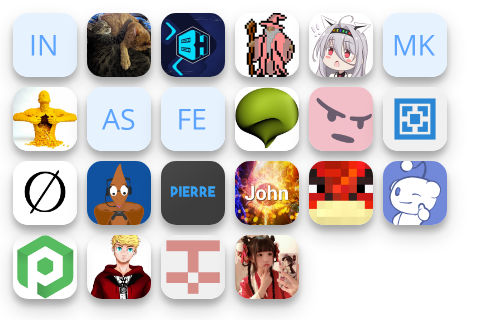
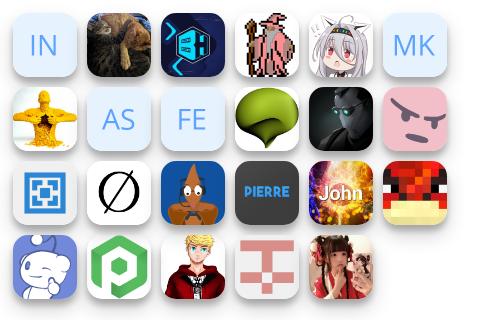
Sponsor Update

Changed region(s): [[0.0, 0.5, 0.9, 0.9688], [0.6, 0.25, 0.9, 0.4688]]

diff --git a/sponsors.html b/sponsors.html
@@ -1,7 +1,7 @@
 <html lang="en" style="height: 320px;width: 500px">
     <body>
     <ul style="margin: 0;padding: 0;list-style: none;">
-        <li style="display: inline"><img src='https://images.opencollective.com/incognito-6605083f/avatar.png' alt='Incognito' title='Incognito' onerror='this.src="https://opencollective.com/static/images/default-guest-logo.svg"' style="height: 64px;width: 64px;margin: 5px;border-radius: 15px;box-shadow: 0 10px 20px rgba(0,0,0,0.19), 0 6px 6px rgba(0,0,0,0.23);"/></li><li style="display: inline"><img src='https://images.opencollective.com/kyle-wood/57ef452/avatar.png' alt='Kyle Wood' title='Kyle Wood' onerror='this.src="https://opencollective.com/static/images/default-guest-logo.svg"' style="height: 64px;width: 64px;margin: 5px;border-radius: 15px;box-shadow: 0 10px 20px rgba(0,0,0,0.19), 0 6px 6px rgba(0,0,0,0.23);"/></li><li style="display: inline"><img src='https://images.opencollective.com/bisecthosting/a176793/logo.png' alt='BisectHosting' title='BisectHosting' onerror='this.src="https://opencollective.com/static/images/default-guest-logo.svg"' style="height: 64px;width: 64px;margin: 5px;border-radius: 15px;box-shadow: 0 10px 20px rgba(0,0,0,0.19), 0 6px 6px rgba(0,0,0,0.23);"/></li><li style="display: inline"><img src='https://images.opencollective.com/notmyfault/8026388/avatar.png' alt='NotMyFault' title='NotMyFault' onerror='this.src="https://opencollective.com/static/images/default-guest-logo.svg"' style="height: 64px;width: 64px;margin: 5px;border-radius: 15px;box-shadow: 0 10px 20px rgba(0,0,0,0.19), 0 6px 6px rgba(0,0,0,0.23);"/></li><li style="display: inline"><img src='https://images.opencollective.com/paper-chan/21d649c/avatar.png' alt='Paper Chan' title='Paper Chan' onerror='this.src="https://opencollective.com/static/images/default-guest-logo.svg"' style="height: 64px;width: 64px;margin: 5px;border-radius: 15px;box-shadow: 0 10px 20px rgba(0,0,0,0.19), 0 6px 6px rgba(0,0,0,0.23);"/></li><li style="display: inline"><img src='https://images.opencollective.com/guest-e5424b5d/avatar.png' alt='Max Klug' title='Max Klug' onerror='this.src="https://opencollective.com/static/images/default-guest-logo.svg"' style="height: 64px;width: 64px;margin: 5px;border-radius: 15px;box-shadow: 0 10px 20px rgba(0,0,0,0.19), 0 6px 6px rgba(0,0,0,0.23);"/></li><li style="display: inline"><img src='https://images.opencollective.com/minidigger/d330b74/avatar.png' alt='MiniDigger | Martin' title='MiniDigger | Martin' onerror='this.src="https://opencollective.com/static/images/default-guest-logo.svg"' style="height: 64px;width: 64px;margin: 5px;border-radius: 15px;box-shadow: 0 10px 20px rgba(0,0,0,0.19), 0 6px 6px rgba(0,0,0,0.23);"/></li><li style="display: inline"><img src='https://images.opencollective.com/andrew-steinborn/avatar.png' alt='Andrew Steinborn' title='Andrew Steinborn' onerror='this.src="https://opencollective.com/static/images/default-guest-logo.svg"' style="height: 64px;width: 64px;margin: 5px;border-radius: 15px;box-shadow: 0 10px 20px rgba(0,0,0,0.19), 0 6px 6px rgba(0,0,0,0.23);"/></li><li style="display: inline"><img src='https://images.opencollective.com/guest-75cfb38d/avatar.png' alt='fergydanny' title='fergydanny' onerror='this.src="https://opencollective.com/static/images/default-guest-logo.svg"' style="height: 64px;width: 64px;margin: 5px;border-radius: 15px;box-shadow: 0 10px 20px rgba(0,0,0,0.19), 0 6px 6px rgba(0,0,0,0.23);"/></li><li style="display: inline"><img src='https://avatars.githubusercontent.com/u/181668?v=4' alt='mbax' title='mbax' onerror='this.src="https://opencollective.com/static/images/default-guest-logo.svg"' style="height: 64px;width: 64px;margin: 5px;border-radius: 15px;box-shadow: 0 10px 20px rgba(0,0,0,0.19), 0 6px 6px rgba(0,0,0,0.23);"/></li><li style="display: inline"><img src='https://avatars.githubusercontent.com/u/7191851?v=4' alt='sweepyoface' title='sweepyoface' onerror='this.src="https://opencollective.com/static/images/default-guest-logo.svg"' style="height: 64px;width: 64px;margin: 5px;border-radius: 15px;box-shadow: 0 10px 20px rgba(0,0,0,0.19), 0 6px 6px rgba(0,0,0,0.23);"/></li><li style="display: inline"><img src='https://avatars.githubusercontent.com/u/10004025?v=4' alt='aternosorg' title='aternosorg' onerror='this.src="https://opencollective.com/static/images/default-guest-logo.svg"' style="height: 64px;width: 64px;margin: 5px;border-radius: 15px;box-shadow: 0 10px 20px rgba(0,0,0,0.19), 0 6px 6px rgba(0,0,0,0.23);"/></li><li style="display: inline"><img src='https://avatars.githubusercontent.com/u/13875753?u=6e3a6da4e2af646471f846dc618c251b00b58d9c' alt='LMBishop' title='LMBishop' onerror='this.src="https://opencollective.com/static/images/default-guest-logo.svg"' style="height: 64px;width: 64px;margin: 5px;border-radius: 15px;box-shadow: 0 10px 20px rgba(0,0,0,0.19), 0 6px 6px rgba(0,0,0,0.23);"/></li><li style="display: inline"><img src='https://avatars.githubusercontent.com/u/16179146?v=4' alt='pterodactyl' title='pterodactyl' onerror='this.src="https://opencollective.com/static/images/default-guest-logo.svg"' style="height: 64px;width: 64px;margin: 5px;border-radius: 15px;box-shadow: 0 10px 20px rgba(0,0,0,0.19), 0 6px 6px rgba(0,0,0,0.23);"/></li><li style="display: inline"><img src='https://avatars.githubusercontent.com/u/27054324?u=bb7337fe6921d0d732fa56b4089366e721987ef1' alt='PierreSchwang' title='PierreSchwang' onerror='this.src="https://opencollective.com/static/images/default-guest-logo.svg"' style="height: 64px;width: 64px;margin: 5px;border-radius: 15px;box-shadow: 0 10px 20px rgba(0,0,0,0.19), 0 6px 6px rgba(0,0,0,0.23);"/></li><li style="display: inline"><img src='https://avatars.githubusercontent.com/u/28821789?v=4' alt='J0ddy' title='J0ddy' onerror='this.src="https://opencollective.com/static/images/default-guest-logo.svg"' style="height: 64px;width: 64px;margin: 5px;border-radius: 15px;box-shadow: 0 10px 20px rgba(0,0,0,0.19), 0 6px 6px rgba(0,0,0,0.23);"/></li><li style="display: inline"><img src='https://avatars.githubusercontent.com/u/42840288?u=a5c905371d28210544d8c8bb2ec8ec71f5fa8f57' alt='redbau' title='redbau' onerror='this.src="https://opencollective.com/static/images/default-guest-logo.svg"' style="height: 64px;width: 64px;margin: 5px;border-radius: 15px;box-shadow: 0 10px 20px rgba(0,0,0,0.19), 0 6px 6px rgba(0,0,0,0.23);"/></li><li style="display: inline"><img src='https://avatars.githubusercontent.com/u/44026893?u=1aa282d38edd1262d618ee4ec268cbf1c922f5b9' alt='NoahvdAa' title='NoahvdAa' onerror='this.src="https://opencollective.com/static/images/default-guest-logo.svg"' style="height: 64px;width: 64px;margin: 5px;border-radius: 15px;box-shadow: 0 10px 20px rgba(0,0,0,0.19), 0 6px 6px rgba(0,0,0,0.23);"/></li><li style="display: inline"><img src='https://avatars.githubusercontent.com/u/53379531?v=4' alt='pebblehost' title='pebblehost' onerror='this.src="https://opencollective.com/static/images/default-guest-logo.svg"' style="height: 64px;width: 64px;margin: 5px;border-radius: 15px;box-shadow: 0 10px 20px rgba(0,0,0,0.19), 0 6px 6px rgba(0,0,0,0.23);"/></li><li style="display: inline"><img src='https://avatars.githubusercontent.com/u/59731738?u=20b60f5cf11f16f22da954a1fb17285229ed96c3' alt='otDan' title='otDan' onerror='this.src="https://opencollective.com/static/images/default-guest-logo.svg"' style="height: 64px;width: 64px;margin: 5px;border-radius: 15px;box-shadow: 0 10px 20px rgba(0,0,0,0.19), 0 6px 6px rgba(0,0,0,0.23);"/></li><li style="display: inline"><img src='https://avatars.githubusercontent.com/u/65355670?v=4' alt='BeastyBoo' title='BeastyBoo' onerror='this.src="https://opencollective.com/static/images/default-guest-logo.svg"' style="height: 64px;width: 64px;margin: 5px;border-radius: 15px;box-shadow: 0 10px 20px rgba(0,0,0,0.19), 0 6px 6px rgba(0,0,0,0.23);"/></li><li style="display: inline"><img src='https://avatars.githubusercontent.com/u/91187349?u=c1ea640980100674bbc9719d04594c404b5dde51' alt='First-Dream' title='First-Dream' onerror='this.src="https://opencollective.com/static/images/default-guest-logo.svg"' style="height: 64px;width: 64px;margin: 5px;border-radius: 15px;box-shadow: 0 10px 20px rgba(0,0,0,0.19), 0 6px 6px rgba(0,0,0,0.23);"/></li>
+        <li style="display: inline"><img src='https://images.opencollective.com/incognito-6605083f/avatar.png' alt='Incognito' title='Incognito' onerror='this.src="https://opencollective.com/static/images/default-guest-logo.svg"' style="height: 64px;width: 64px;margin: 5px;border-radius: 15px;box-shadow: 0 10px 20px rgba(0,0,0,0.19), 0 6px 6px rgba(0,0,0,0.23);"/></li><li style="display: inline"><img src='https://images.opencollective.com/kyle-wood/57ef452/avatar.png' alt='Kyle Wood' title='Kyle Wood' onerror='this.src="https://opencollective.com/static/images/default-guest-logo.svg"' style="height: 64px;width: 64px;margin: 5px;border-radius: 15px;box-shadow: 0 10px 20px rgba(0,0,0,0.19), 0 6px 6px rgba(0,0,0,0.23);"/></li><li style="display: inline"><img src='https://images.opencollective.com/bisecthosting/a176793/logo.png' alt='BisectHosting' title='BisectHosting' onerror='this.src="https://opencollective.com/static/images/default-guest-logo.svg"' style="height: 64px;width: 64px;margin: 5px;border-radius: 15px;box-shadow: 0 10px 20px rgba(0,0,0,0.19), 0 6px 6px rgba(0,0,0,0.23);"/></li><li style="display: inline"><img src='https://images.opencollective.com/notmyfault/8026388/avatar.png' alt='NotMyFault' title='NotMyFault' onerror='this.src="https://opencollective.com/static/images/default-guest-logo.svg"' style="height: 64px;width: 64px;margin: 5px;border-radius: 15px;box-shadow: 0 10px 20px rgba(0,0,0,0.19), 0 6px 6px rgba(0,0,0,0.23);"/></li><li style="display: inline"><img src='https://images.opencollective.com/paper-chan/21d649c/avatar.png' alt='Paper Chan' title='Paper Chan' onerror='this.src="https://opencollective.com/static/images/default-guest-logo.svg"' style="height: 64px;width: 64px;margin: 5px;border-radius: 15px;box-shadow: 0 10px 20px rgba(0,0,0,0.19), 0 6px 6px rgba(0,0,0,0.23);"/></li><li style="display: inline"><img src='https://images.opencollective.com/guest-e5424b5d/avatar.png' alt='Max Klug' title='Max Klug' onerror='this.src="https://opencollective.com/static/images/default-guest-logo.svg"' style="height: 64px;width: 64px;margin: 5px;border-radius: 15px;box-shadow: 0 10px 20px rgba(0,0,0,0.19), 0 6px 6px rgba(0,0,0,0.23);"/></li><li style="display: inline"><img src='https://images.opencollective.com/minidigger/d330b74/avatar.png' alt='MiniDigger | Martin' title='MiniDigger | Martin' onerror='this.src="https://opencollective.com/static/images/default-guest-logo.svg"' style="height: 64px;width: 64px;margin: 5px;border-radius: 15px;box-shadow: 0 10px 20px rgba(0,0,0,0.19), 0 6px 6px rgba(0,0,0,0.23);"/></li><li style="display: inline"><img src='https://images.opencollective.com/andrew-steinborn/avatar.png' alt='Andrew Steinborn' title='Andrew Steinborn' onerror='this.src="https://opencollective.com/static/images/default-guest-logo.svg"' style="height: 64px;width: 64px;margin: 5px;border-radius: 15px;box-shadow: 0 10px 20px rgba(0,0,0,0.19), 0 6px 6px rgba(0,0,0,0.23);"/></li><li style="display: inline"><img src='https://images.opencollective.com/guest-75cfb38d/avatar.png' alt='fergydanny' title='fergydanny' onerror='this.src="https://opencollective.com/static/images/default-guest-logo.svg"' style="height: 64px;width: 64px;margin: 5px;border-radius: 15px;box-shadow: 0 10px 20px rgba(0,0,0,0.19), 0 6px 6px rgba(0,0,0,0.23);"/></li><li style="display: inline"><img src='https://avatars.githubusercontent.com/u/181668?v=4' alt='mbax' title='mbax' onerror='this.src="https://opencollective.com/static/images/default-guest-logo.svg"' style="height: 64px;width: 64px;margin: 5px;border-radius: 15px;box-shadow: 0 10px 20px rgba(0,0,0,0.19), 0 6px 6px rgba(0,0,0,0.23);"/></li><li style="display: inline"><img src='https://avatars.githubusercontent.com/u/3602279?u=d8ad6831864c2419b95272e155a503ea9f3b6158' alt='Doc94' title='Doc94' onerror='this.src="https://opencollective.com/static/images/default-guest-logo.svg"' style="height: 64px;width: 64px;margin: 5px;border-radius: 15px;box-shadow: 0 10px 20px rgba(0,0,0,0.19), 0 6px 6px rgba(0,0,0,0.23);"/></li><li style="display: inline"><img src='https://avatars.githubusercontent.com/u/7191851?v=4' alt='sweepyoface' title='sweepyoface' onerror='this.src="https://opencollective.com/static/images/default-guest-logo.svg"' style="height: 64px;width: 64px;margin: 5px;border-radius: 15px;box-shadow: 0 10px 20px rgba(0,0,0,0.19), 0 6px 6px rgba(0,0,0,0.23);"/></li><li style="display: inline"><img src='https://avatars.githubusercontent.com/u/10004025?v=4' alt='aternosorg' title='aternosorg' onerror='this.src="https://opencollective.com/static/images/default-guest-logo.svg"' style="height: 64px;width: 64px;margin: 5px;border-radius: 15px;box-shadow: 0 10px 20px rgba(0,0,0,0.19), 0 6px 6px rgba(0,0,0,0.23);"/></li><li style="display: inline"><img src='https://avatars.githubusercontent.com/u/13875753?u=6e3a6da4e2af646471f846dc618c251b00b58d9c' alt='LMBishop' title='LMBishop' onerror='this.src="https://opencollective.com/static/images/default-guest-logo.svg"' style="height: 64px;width: 64px;margin: 5px;border-radius: 15px;box-shadow: 0 10px 20px rgba(0,0,0,0.19), 0 6px 6px rgba(0,0,0,0.23);"/></li><li style="display: inline"><img src='https://avatars.githubusercontent.com/u/16179146?v=4' alt='pterodactyl' title='pterodactyl' onerror='this.src="https://opencollective.com/static/images/default-guest-logo.svg"' style="height: 64px;width: 64px;margin: 5px;border-radius: 15px;box-shadow: 0 10px 20px rgba(0,0,0,0.19), 0 6px 6px rgba(0,0,0,0.23);"/></li><li style="display: inline"><img src='https://avatars.githubusercontent.com/u/27054324?u=bb7337fe6921d0d732fa56b4089366e721987ef1' alt='PierreSchwang' title='PierreSchwang' onerror='this.src="https://opencollective.com/static/images/default-guest-logo.svg"' style="height: 64px;width: 64px;margin: 5px;border-radius: 15px;box-shadow: 0 10px 20px rgba(0,0,0,0.19), 0 6px 6px rgba(0,0,0,0.23);"/></li><li style="display: inline"><img src='https://avatars.githubusercontent.com/u/28821789?v=4' alt='J0ddy' title='J0ddy' onerror='this.src="https://opencollective.com/static/images/default-guest-logo.svg"' style="height: 64px;width: 64px;margin: 5px;border-radius: 15px;box-shadow: 0 10px 20px rgba(0,0,0,0.19), 0 6px 6px rgba(0,0,0,0.23);"/></li><li style="display: inline"><img src='https://avatars.githubusercontent.com/u/42840288?u=a5c905371d28210544d8c8bb2ec8ec71f5fa8f57' alt='redbau' title='redbau' onerror='this.src="https://opencollective.com/static/images/default-guest-logo.svg"' style="height: 64px;width: 64px;margin: 5px;border-radius: 15px;box-shadow: 0 10px 20px rgba(0,0,0,0.19), 0 6px 6px rgba(0,0,0,0.23);"/></li><li style="display: inline"><img src='https://avatars.githubusercontent.com/u/44026893?u=1aa282d38edd1262d618ee4ec268cbf1c922f5b9' alt='NoahvdAa' title='NoahvdAa' onerror='this.src="https://opencollective.com/static/images/default-guest-logo.svg"' style="height: 64px;width: 64px;margin: 5px;border-radius: 15px;box-shadow: 0 10px 20px rgba(0,0,0,0.19), 0 6px 6px rgba(0,0,0,0.23);"/></li><li style="display: inline"><img src='https://avatars.githubusercontent.com/u/53379531?v=4' alt='pebblehost' title='pebblehost' onerror='this.src="https://opencollective.com/static/images/default-guest-logo.svg"' style="height: 64px;width: 64px;margin: 5px;border-radius: 15px;box-shadow: 0 10px 20px rgba(0,0,0,0.19), 0 6px 6px rgba(0,0,0,0.23);"/></li><li style="display: inline"><img src='https://avatars.githubusercontent.com/u/59731738?u=20b60f5cf11f16f22da954a1fb17285229ed96c3' alt='otDan' title='otDan' onerror='this.src="https://opencollective.com/static/images/default-guest-logo.svg"' style="height: 64px;width: 64px;margin: 5px;border-radius: 15px;box-shadow: 0 10px 20px rgba(0,0,0,0.19), 0 6px 6px rgba(0,0,0,0.23);"/></li><li style="display: inline"><img src='https://avatars.githubusercontent.com/u/65355670?v=4' alt='BeastyBoo' title='BeastyBoo' onerror='this.src="https://opencollective.com/static/images/default-guest-logo.svg"' style="height: 64px;width: 64px;margin: 5px;border-radius: 15px;box-shadow: 0 10px 20px rgba(0,0,0,0.19), 0 6px 6px rgba(0,0,0,0.23);"/></li><li style="display: inline"><img src='https://avatars.githubusercontent.com/u/91187349?u=c1ea640980100674bbc9719d04594c404b5dde51' alt='First-Dream' title='First-Dream' onerror='this.src="https://opencollective.com/static/images/default-guest-logo.svg"' style="height: 64px;width: 64px;margin: 5px;border-radius: 15px;box-shadow: 0 10px 20px rgba(0,0,0,0.19), 0 6px 6px rgba(0,0,0,0.23);"/></li>
     </ul>
     </body>
     </html>
